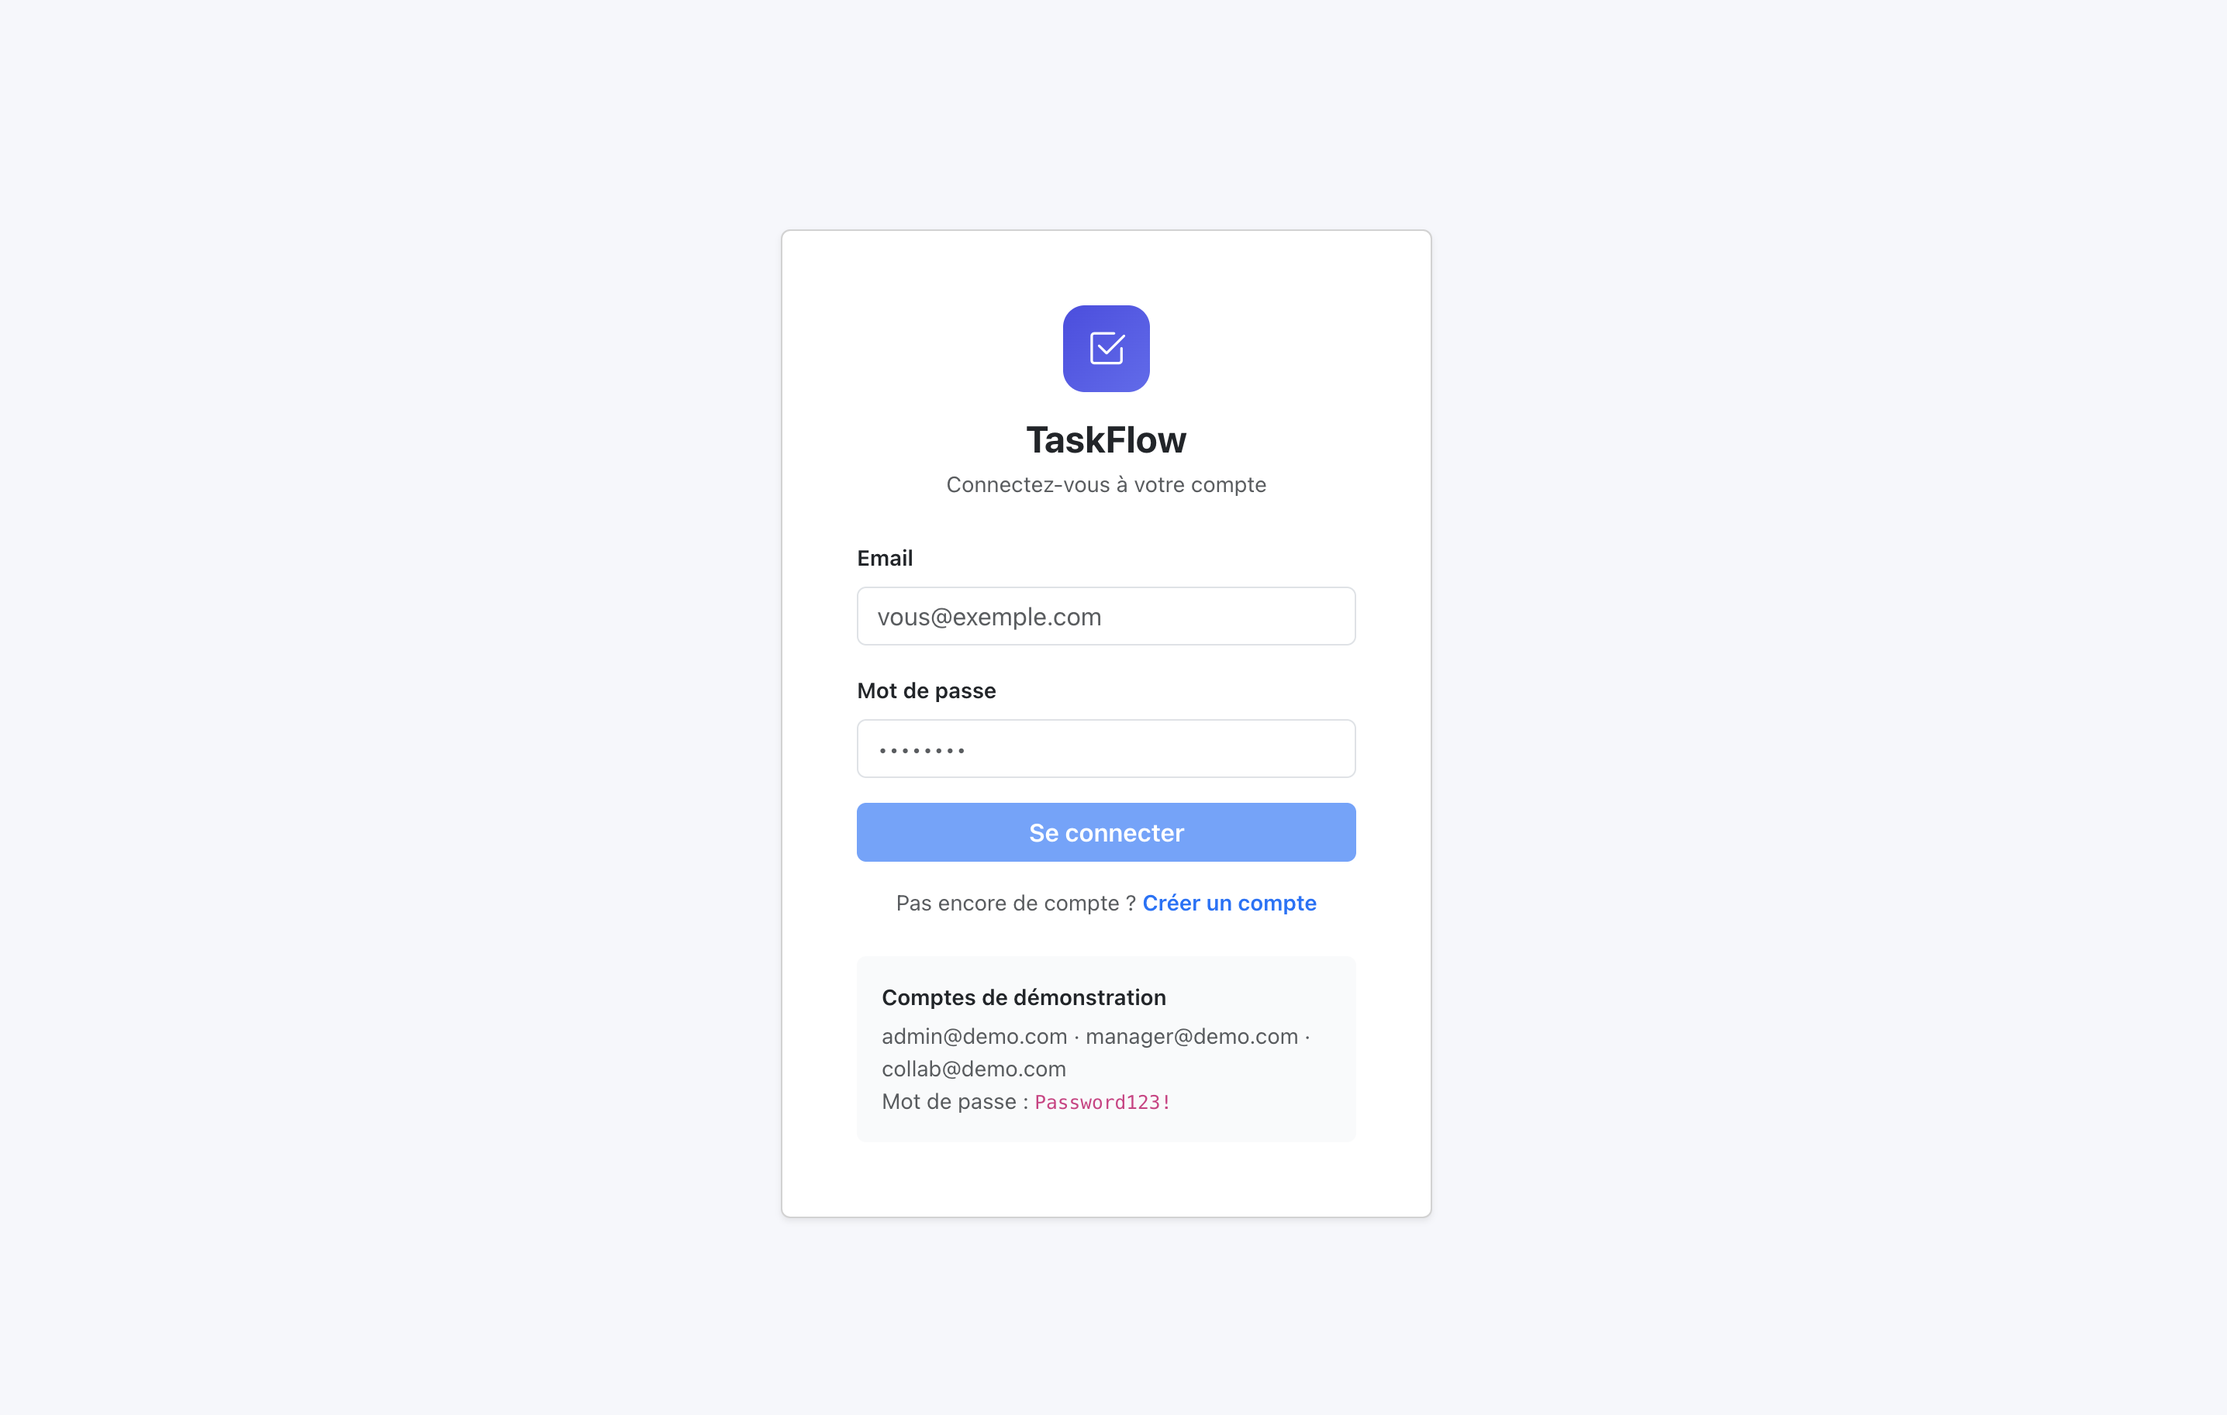
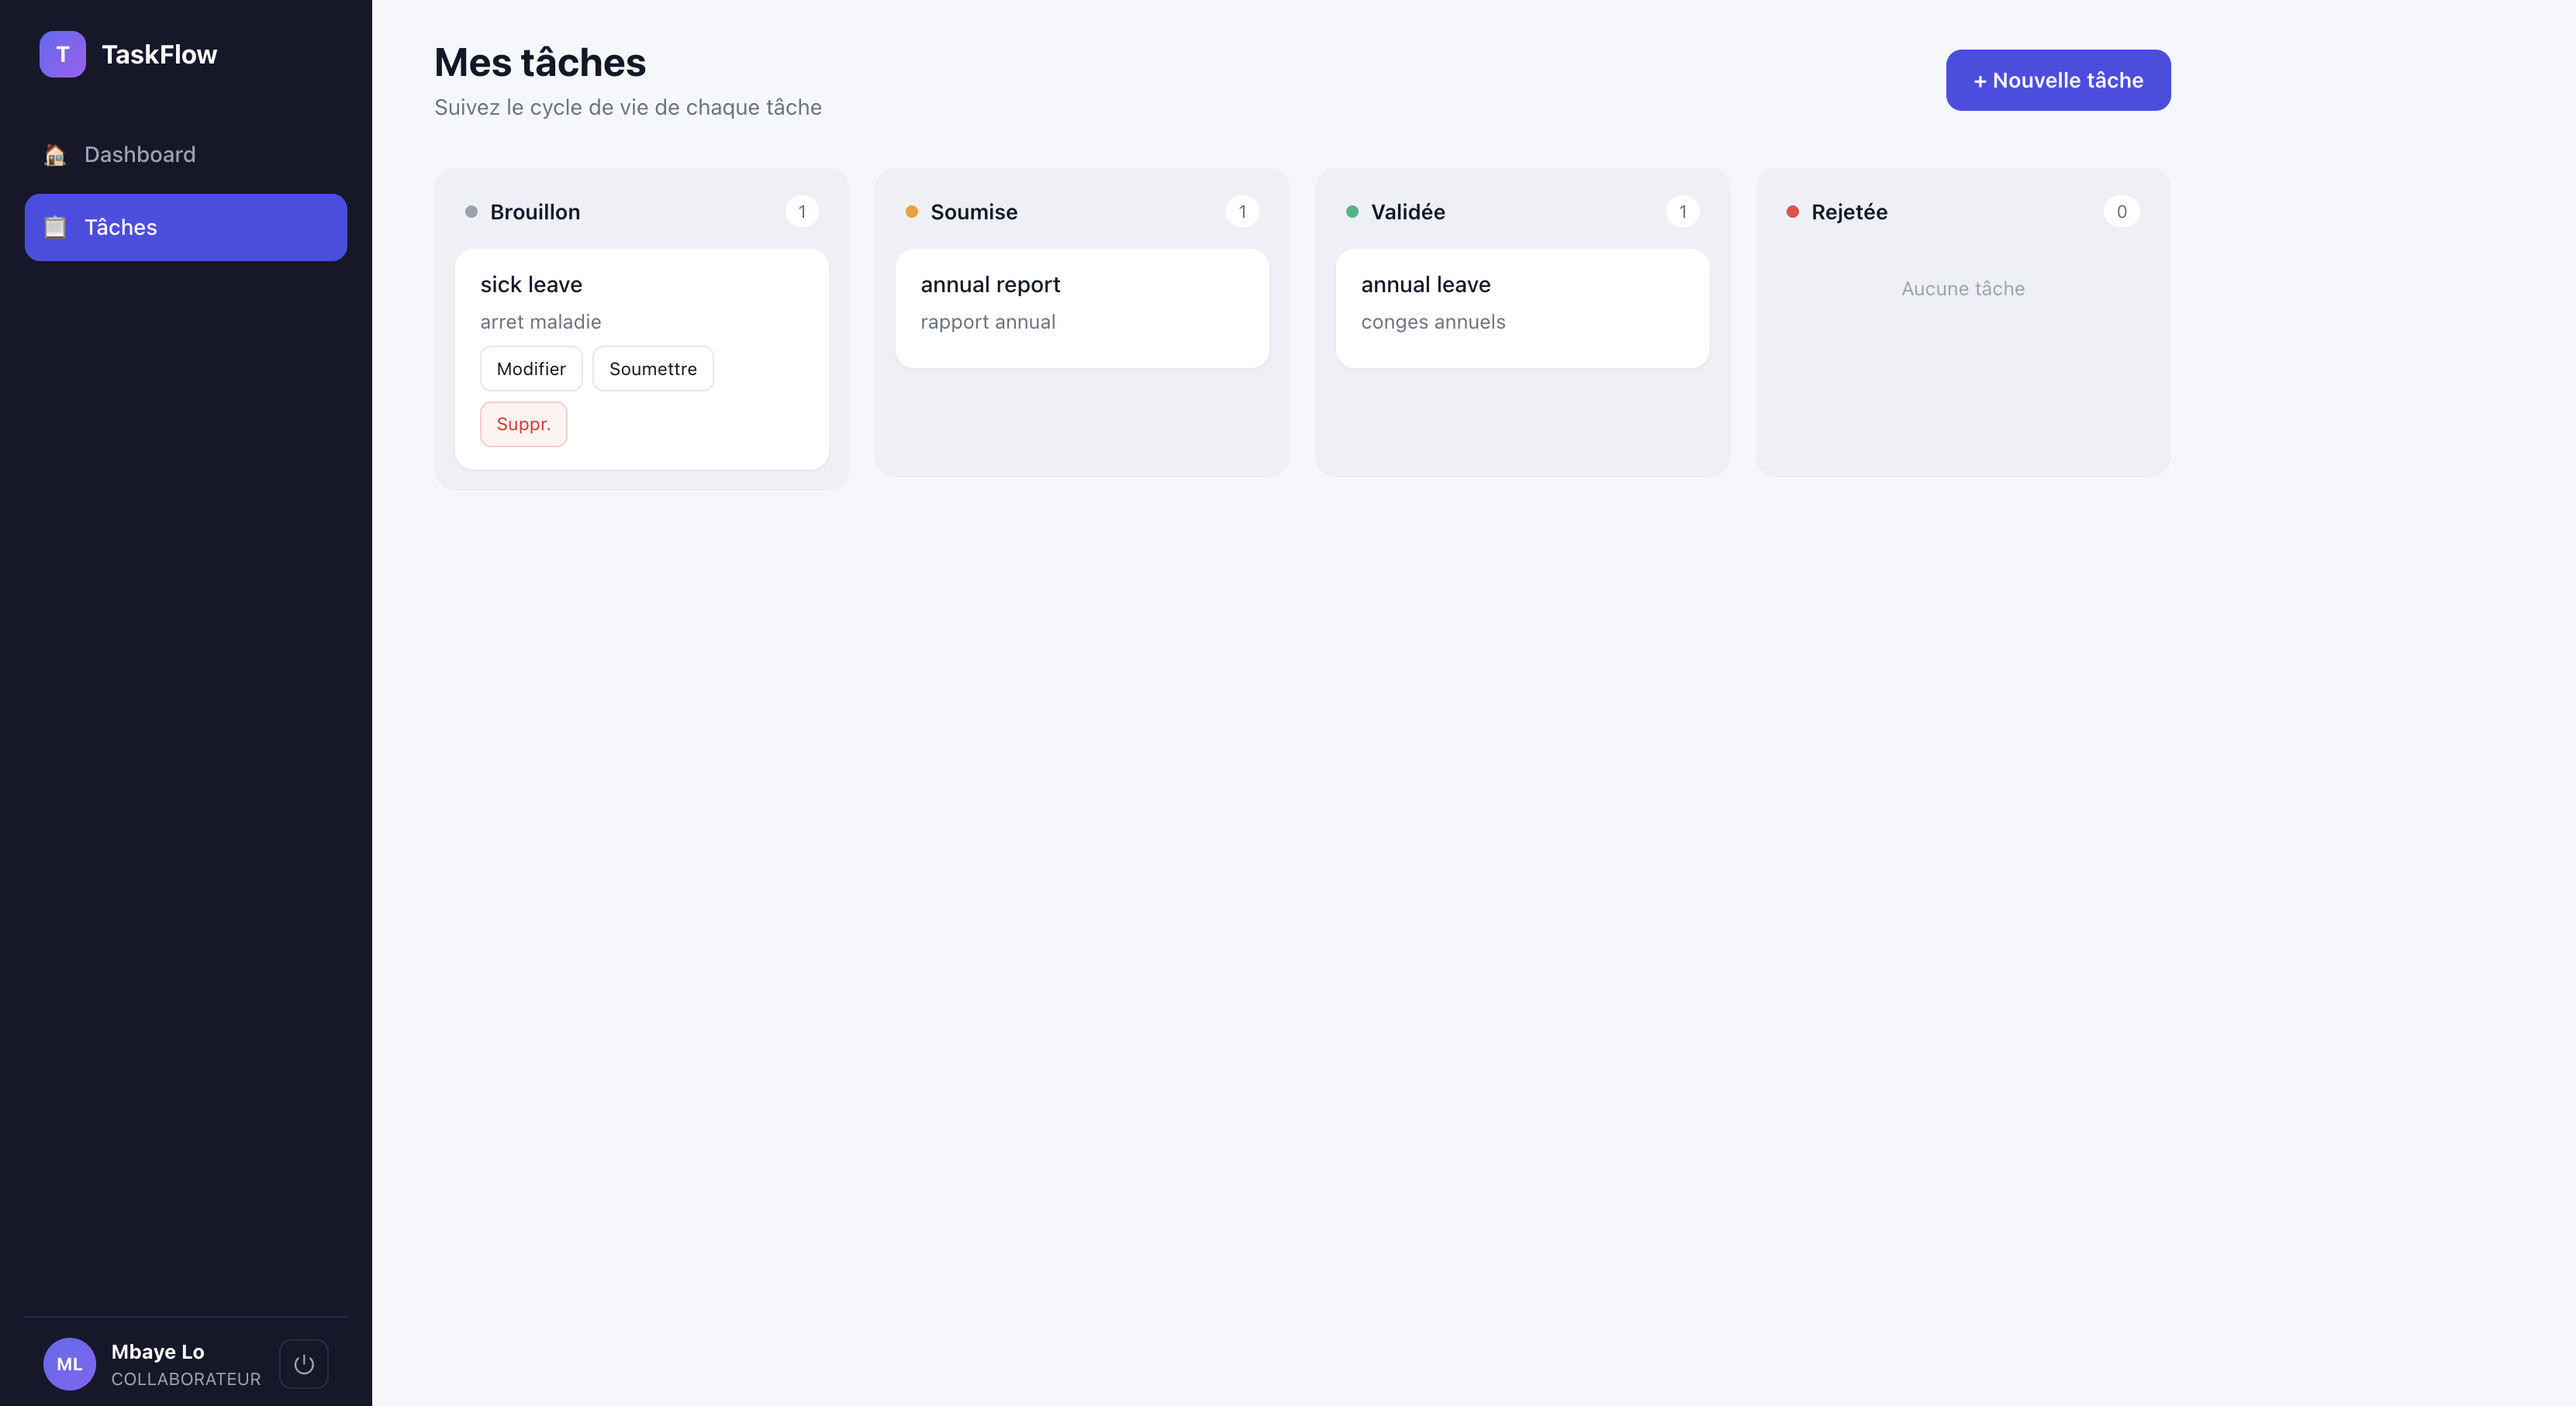
add demo images to readme

diff --git a/frontend/src/app/features/login/login.component.html b/frontend/src/app/features/login/login.component.html
@@ -50,12 +50,5 @@
           <a routerLink="/register" class="text-primary text-decoration-none fw-semibold">Créer un compte</a>
         </p>
       </form>
-
-      <div class="demo-accounts mt-4 p-3 rounded">
-        <p class="small fw-semibold mb-1">Comptes de démonstration</p>
-        <p class="small text-muted mb-0">admin&#64;demo.com · manager&#64;demo.com · collab&#64;demo.com</p>
-        <p class="small text-muted mb-0">Mot de passe : <code>Password123!</code></p>
-      </div>
-    </div>
   </div>
 </div>

diff --git a/README.md b/README.md
@@ -215,7 +215,7 @@ Inscrits via le script de seed `prisma/seed.ts` (mot de passe identique : `Passw
 ---
 
 **Page Login**
-![alt text](image-2.png)
+![alt text](image-4.png)
 
 **Dashboard (vue admin)**
 
@@ -223,4 +223,4 @@ Inscrits via le script de seed `prisma/seed.ts` (mot de passe identique : `Passw
 
 **Gestion taches(vue colloborateur)**
 
-![alt text](image-3.png)
+![alt text](image-2.png)
